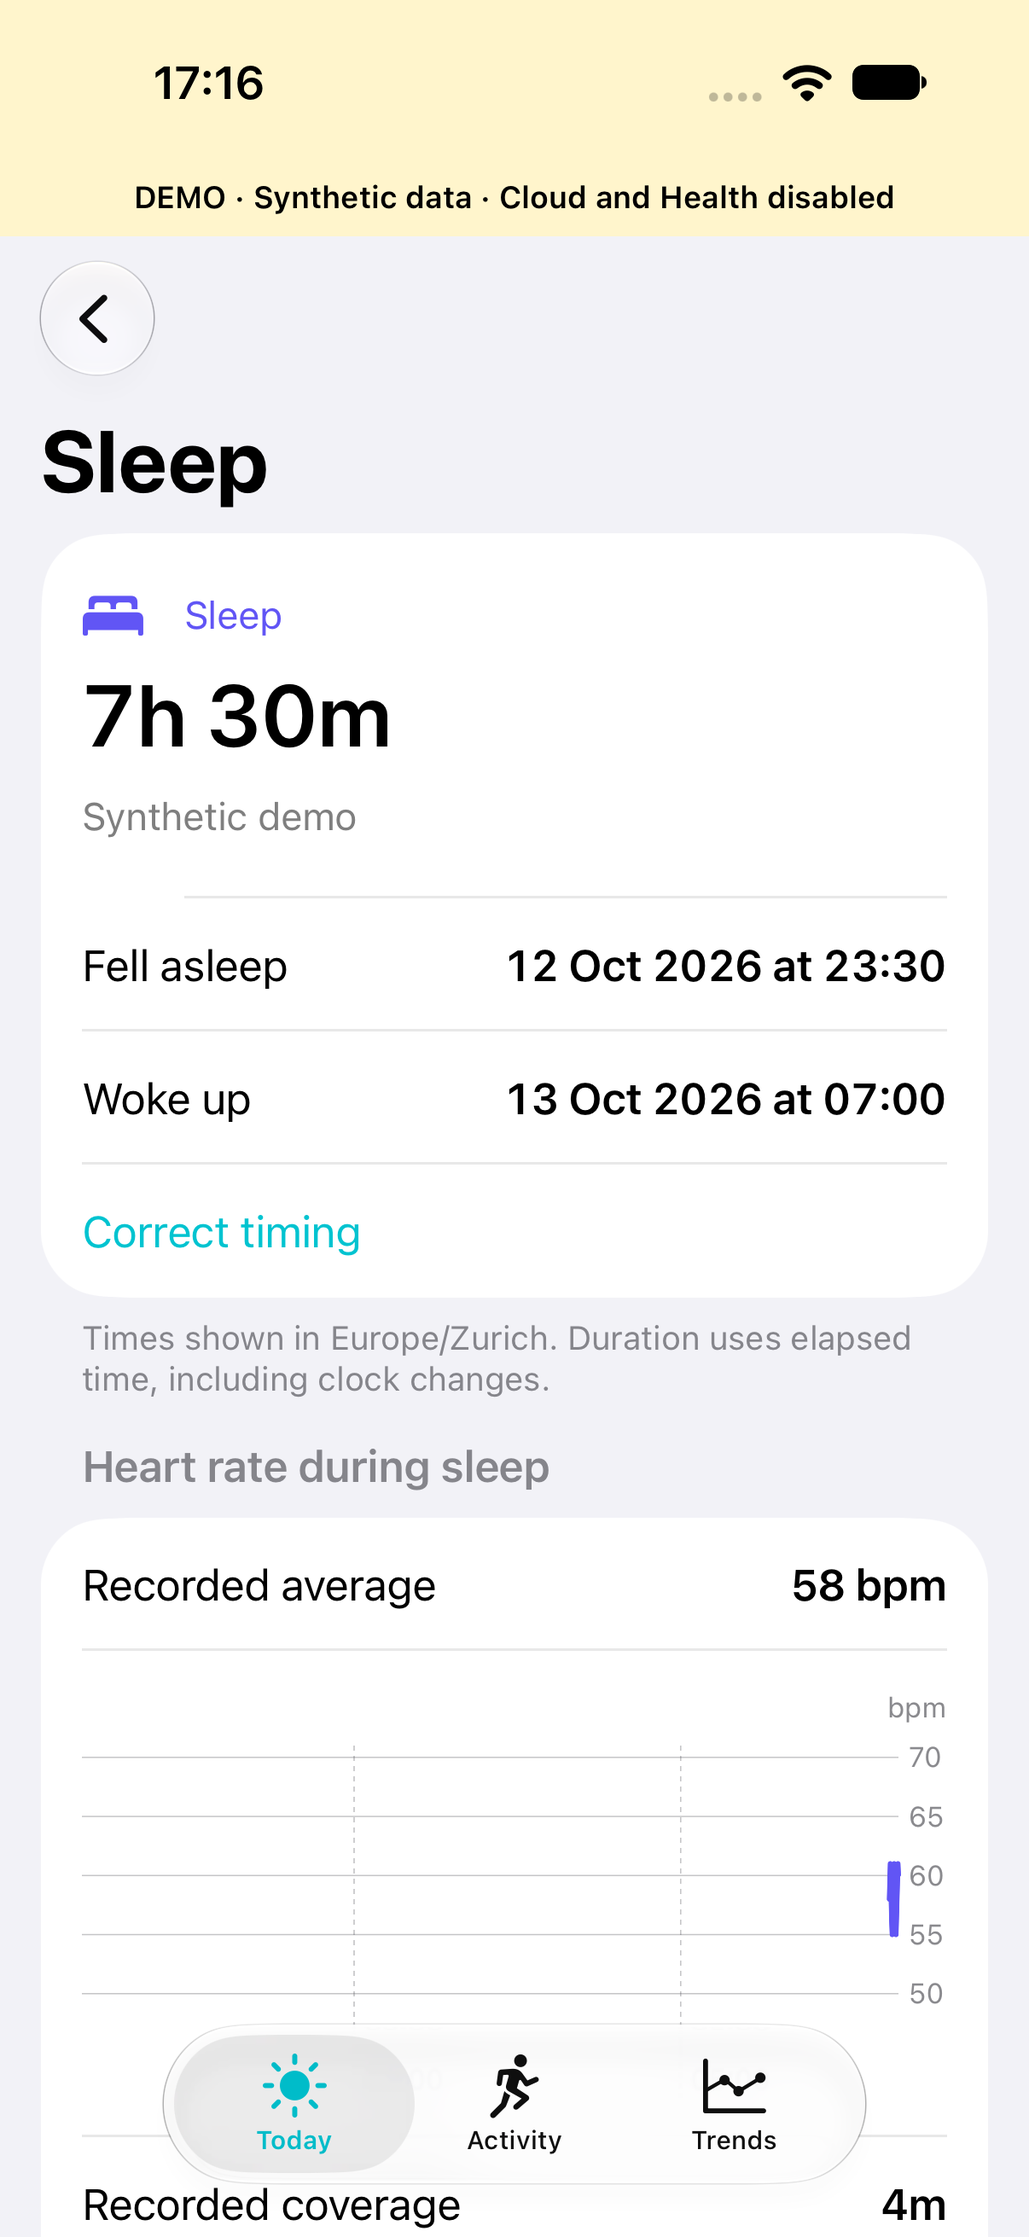
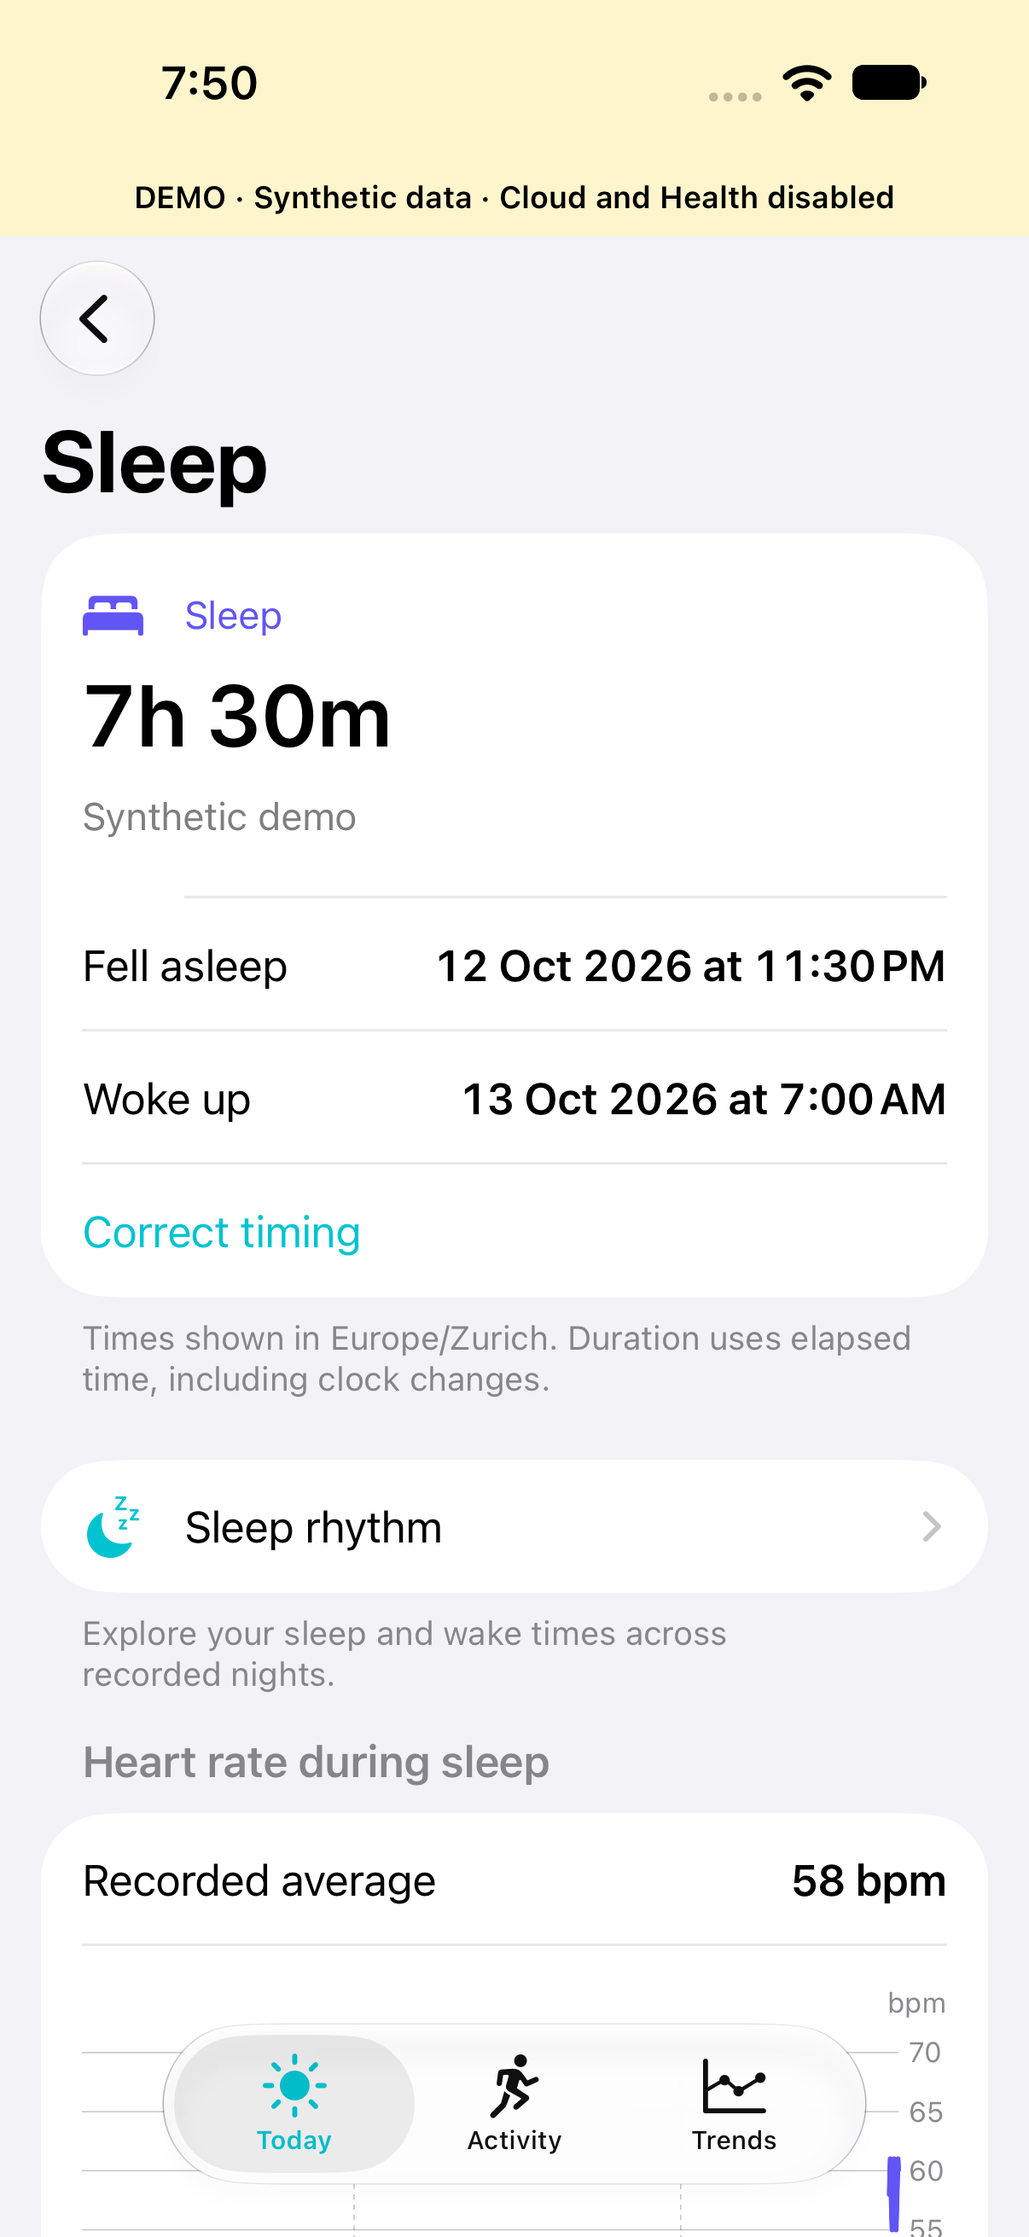
Feature sleep rhythm and remove idle Live dashboard card

diff --git a/Tests/TempoUITests/TempoUITests.swift b/Tests/TempoUITests/TempoUITests.swift
@@ -273,6 +273,15 @@ extension TempoUITests {
     let evidence = app.buttons["Source and measurement evidence"]
     for _ in 0..<4 where !evidence.isHittable { app.swipeUp() }
     XCTAssertTrue(evidence.isHittable)
+    let cloud = app.staticTexts["Demo · iCloud disabled"]
+    for _ in 0..<4 where !cloud.isHittable { app.swipeUp() }
+    XCTAssertTrue(cloud.isHittable)
+    XCTAssertFalse(app.cells.allElementsBoundByIndex.contains {
+      $0.isHittable && $0.staticTexts.count == 0 && $0.buttons.count == 0 && $0.images.count == 0
+    })
+    let lower = XCTAttachment(screenshot: app.screenshot())
+    lower.name = "live-source-sync-demo"; lower.lifetime = .keepAlways; add(lower)
+    for _ in 0..<4 where !evidence.isHittable { app.swipeDown() }
     evidence.tap()
     XCTAssertTrue(app.staticTexts["Intervals are not an overnight HRV result."].exists)
     for _ in 0..<4 where !app.buttons["Manage bands"].isHittable { app.swipeUp() }
@@ -782,4 +791,33 @@ extension TempoUITests {
     XCTAssertTrue(app.navigationBars["Sleep rhythm"].waitForExistence(timeout: 5))
     XCTAssertTrue(app.staticTexts["sleep-rhythm-coverage"].exists)
   }
+  @MainActor func testSleepRhythmIsFeaturedInTrendsAndLinkedFromSleep() {
+    let app = XCUIApplication()
+    app.launchArguments = ["--ui-testing", "--demo"]
+    app.launch()
+    let settings = app.buttons["Bands, sync and settings"]
+    XCTAssertTrue(settings.waitForExistence(timeout: 20))
+    wait(for: [expectation(for: NSPredicate(format: "enabled == true"), evaluatedWith: settings)], timeout: 30)
+    app.tabBars.buttons["Trends"].tap()
+    let card = app.buttons["trends-sleep-rhythm"]
+    XCTAssertTrue(card.waitForExistence(timeout: 10))
+    XCTAssertTrue(card.isHittable)
+    let trends = XCTAttachment(screenshot: app.screenshot())
+    trends.name = "trends-rhythm-feature-demo"; trends.lifetime = .keepAlways; add(trends)
+    card.tap()
+    XCTAssertTrue(app.staticTexts["sleep-rhythm-coverage"].waitForExistence(timeout: 5))
+    app.navigationBars.buttons.firstMatch.tap()
+    app.tabBars.buttons["Today"].tap()
+    let sleep = app.buttons["today-sleep-summary"]
+    for _ in 0..<4 where !sleep.isHittable { app.swipeUp() }
+    sleep.tap()
+    let link = app.buttons["sleep-detail-rhythm"]
+    if !link.isHittable { app.swipeUp() }
+    XCTAssertTrue(link.waitForExistence(timeout: 5))
+    let detail = XCTAttachment(screenshot: app.screenshot())
+    detail.name = "sleep-detail-rhythm-demo"; detail.lifetime = .keepAlways; add(detail)
+    link.tap()
+    XCTAssertTrue(app.staticTexts["sleep-rhythm-coverage"].waitForExistence(timeout: 5))
+  }
+
 }

diff --git a/Tempo/Views/DayHistoryViews.swift b/Tempo/Views/DayHistoryViews.swift
@@ -388,3 +388,40 @@ struct SleepRhythmView: View {
     to: Calendar.current.startOfDay(for: Date()))!
   return model.sleeps.filter { $0.end >= from }
 }
+
+/// A visible entry into sleep timing, using the same saved-night projection as the detail.
+struct SleepRhythmCard: View {
+  @Environment(AppModel.self) private var model
+  var body: some View {
+    let start = Calendar.current.date(byAdding: .day, value: -13,
+      to: Calendar.current.startOfDay(for: Date()))!
+    let entries = DayHistory.primarySleeps(model.sleeps.filter { $0.end >= start },
+      now: Date(), allowSynthetic: model.demo).compactMap { SleepRhythmEntry(session: $0) }
+    NavigationLink { SleepRhythmView() } label: {
+      VStack(alignment: .leading, spacing: 10) {
+        HStack {
+          Label("Sleep rhythm", systemImage: "moon.zzz.fill")
+            .font(.headline).foregroundStyle(.primary)
+          Spacer()
+          Image(systemName: "chevron.right").font(.caption.weight(.semibold)).foregroundStyle(.secondary)
+        }
+        Text(entries.isEmpty ? "See when you sleep and wake" : "\(entries.count) of 14 nights recorded")
+          .font(.subheadline).foregroundStyle(.secondary)
+        if !entries.isEmpty {
+          Chart(entries) { entry in
+            BarMark(x: .value("Wake date", Calendar.current.startOfDay(for: entry.session.end)),
+              yStart: .value("Bedtime", entry.startHour), yEnd: .value("Wake time", entry.endHour))
+              .foregroundStyle(.indigo).cornerRadius(2)
+          }.chartXScale(domain: start...Calendar.current.startOfDay(for: Date()).addingTimeInterval(12 * 3600))
+            .chartXAxis(.hidden).chartYAxis(.hidden).frame(height: 54)
+            .accessibilityHidden(true)
+        } else {
+          Text("Save or confirm a night to build your timing picture.")
+            .font(.caption).foregroundStyle(.secondary)
+        }
+        Text("View sleep rhythm").font(.subheadline.weight(.medium)).foregroundStyle(.indigo)
+      }.padding(18).background(Color(uiColor: .secondarySystemGroupedBackground),
+        in: RoundedRectangle(cornerRadius: 24)).contentShape(Rectangle())
+    }.buttonStyle(.plain).accessibilityIdentifier("trends-sleep-rhythm")
+  }
+}

diff --git a/Tempo/Views/TrendsView.swift b/Tempo/Views/TrendsView.swift
@@ -35,6 +35,7 @@ private enum TrendMetric: String, CaseIterable {
 
 struct TrendsView: View {
   @Environment(AppModel.self) var model
+  @Environment(\.dynamicTypeSize) private var dynamicTypeSize
   @State private var days = 28
   @State private var metric: TrendMetric = .heartRate
   @State private var selectedDate: Date?
@@ -72,6 +73,7 @@ struct TrendsView: View {
             Text("28 days").tag(28)
             Text("90 days").tag(90)
           }.pickerStyle(.segmented)
+          if !dynamicTypeSize.isAccessibilitySize { SleepRhythmCard() }
           Menu {
             Picker("Measurement", selection: $metric) {
               ForEach(TrendMetric.allCases, id: \.self) { Text($0.title).tag($0) }
@@ -83,6 +85,7 @@ struct TrendsView: View {
               Image(systemName: "chevron.up.chevron.down").font(.subheadline)
             }.contentShape(Rectangle()).frame(minHeight: 44)
           }.tint(.primary).accessibilityLabel("Measurement").accessibilityValue(metric.title)
+          if dynamicTypeSize.isAccessibilitySize { SleepRhythmCard() }
           VStack(alignment: .leading, spacing: 14) {
             if metric != .sleep && sameDataset && !summaries.isEmpty {
               periodOverview
@@ -142,7 +145,6 @@ struct TrendsView: View {
           }.padding(18).background(
             Color(uiColor: .secondarySystemGroupedBackground),
             in: RoundedRectangle(cornerRadius: 24))
-          NavigationLink("Sleep rhythm") { SleepRhythmView() }.font(.subheadline)
           DisclosureGroup("About these trends") {
             Text("Typical recorded day is the median of daily values, with each recorded day weighted equally. Missing days are excluded.")
             Text("Empty days mean missing qualifying data, not zero. A change in band, wearing placement or recording coverage can change the pattern.")

diff --git a/Tempo/Views/Editors.swift b/Tempo/Views/Editors.swift
@@ -196,6 +196,13 @@ struct SleepDetailView: View {
       } footer: {
         Text("Times shown in \(current.timeZoneID). Duration uses elapsed time, including clock changes.")
       }
+      Section {
+        NavigationLink { SleepRhythmView() } label: {
+          Label("Sleep rhythm", systemImage: "moon.zzz.fill")
+        }.accessibilityIdentifier("sleep-detail-rhythm")
+      } footer: {
+        Text("Explore your sleep and wake times across recorded nights.")
+      }
       Section("Heart rate during sleep") {
         if let snapshot, snapshot.sampleCount > 0 {
           MetricRow(label: "Recorded average", value: snapshot.average.map { String(format: "%.0f bpm", $0) } ?? "Insufficient continuous readings")

diff --git a/Tempo/Views/StatusViews.swift b/Tempo/Views/StatusViews.swift
@@ -304,7 +304,9 @@ struct LiveDashboardView: View {
       LiveHeartRateSection()
       LiveHistorySection()
       LiveSourceSection()
-      LiveWorkoutSection(confirmFinish: $confirmFinish)
+      if model.activeWorkout != nil {
+        LiveWorkoutSection(confirmFinish: $confirmFinish)
+      }
       Section("iCloud") { SyncStatusRow() }
     }.refreshable { await model.refreshToday() }
       .navigationTitle("Live dashboard")

diff --git a/README.md b/README.md
@@ -128,7 +128,7 @@ These are real screenshots captured from Tempo running in the iOS simulator, wit
 
 [<img src="docs/screenshots/live-dashboard-demo.png" width="240" alt="Live dashboard with clearly labelled synthetic heart rate and coverage">](docs/screenshots/live-dashboard-demo.png)
 
-All twenty-one captures come from successful simulator tests. Today now uses a native large title, a prominent live-reading entry, compact readiness and paired sleep/movement summaries. Tap the date on Today to explore a past day. What stands out offers an inspectable sleep-duration comparison after seven prior recorded nights. The paired sleep/movement cards have equal content-driven heights; at accessibility text sizes they stack vertically. Tapping movement opens daily load, coverage and zone evidence directly. Collection comes first while a baseline builds; unavailable readiness has compact progress instead of an empty score. Activity puts sport selection and Start first, with focused recording controls and a cancelable Finish alert. Trends puts the typical recorded day and recorded-day coverage above one focused chart. Select a point or an accessible daily row to inspect evidence; missing days stay empty. Same-dataset refreshes retain the chart and selected day. Sleep remains a separate session view. Live puts the current/recent reading and a larger four-hour chart first, with 15-minute and one-hour options. Coverage shows the percentage of the selected period recorded; blank periods remain visible. Chart methodology and source evidence expand on demand. Pull-to-refresh requests band collection and enabled cloud sync. Pull down or tap Refresh on Today to check collection and request enabled cloud sync. Journal puts Energy, Soreness and Mood first, with optional context and same-day editing. Workout details put notes/exertion ahead of collapsible measurement evidence. Capture provenance and checksums are in [the screenshot manifest](docs/screenshots/capture-manifest.json). Sleep detail now leads with duration and recorded-zone timing, followed by a separate heart-rate receipt chart and coverage; correction and provenance remain accessible.
+All twenty-two captures come from successful simulator tests. Today now uses a native large title, a prominent live-reading entry, compact readiness and paired sleep/movement summaries. Tap the date on Today to explore a past day. What stands out offers an inspectable sleep-duration comparison after seven prior recorded nights. The paired sleep/movement cards have equal content-driven heights; at accessibility text sizes they stack vertically. Tapping movement opens daily load, coverage and zone evidence directly. Collection comes first while a baseline builds; unavailable readiness has compact progress instead of an empty score. Activity puts sport selection and Start first, with focused recording controls and a cancelable Finish alert. Trends features a Sleep rhythm timing-preview card; Sleep detail links directly to the full rhythm. Trends puts the typical recorded day and recorded-day coverage above one focused chart. Select a point or an accessible daily row to inspect evidence; missing days stay empty. Same-dataset refreshes retain the chart and selected day. Sleep remains a separate session view. Live puts the current/recent reading and a larger four-hour chart first, with 15-minute and one-hour options. Coverage shows the percentage of the selected period recorded; blank periods remain visible. Chart methodology and source evidence expand on demand. Pull-to-refresh requests band collection and enabled cloud sync. Pull down or tap Refresh on Today to check collection and request enabled cloud sync. Journal puts Energy, Soreness and Mood first, with optional context and same-day editing. Workout details put notes/exertion ahead of collapsible measurement evidence. Capture provenance and checksums are in [the screenshot manifest](docs/screenshots/capture-manifest.json). Sleep detail now leads with duration and recorded-zone timing, followed by a separate heart-rate receipt chart and coverage; correction and provenance remain accessible.
 
 | Baseline building · empty test dataset | Band status · empty test dataset | Sleep trends · synthetic demo |
 |---|---|---|
@@ -344,3 +344,7 @@ The page explains daily cardiovascular load and recorded intensity independently
 | [<img src="docs/screenshots/day-explorer-demo.png" width="240" alt="Tempo date-based history explorer with synthetic measurements">](docs/screenshots/day-explorer-demo.png) | [<img src="docs/screenshots/sleep-rhythm-demo.png" width="240" alt="Tempo saved sleep timing chart with synthetic nights">](docs/screenshots/sleep-rhythm-demo.png) | [<img src="docs/screenshots/observation-detail-demo.png" width="240" alt="Tempo inspectable sleep duration comparison using synthetic history">](docs/screenshots/observation-detail-demo.png) |
 
 These are unmodified simulator captures with clearly labelled isolated synthetic data. [Day-history methodology](docs/DayHistory.md) documents calendar boundaries, reference coverage, provenance, missing-data behaviour and the bug pass.
+
+Live dashboard source and sync controls, without an empty workout container:
+
+<img src="docs/screenshots/live-source-sync-demo.png" width="240" alt="Synthetic Live dashboard source and sync status" />

diff --git a/docs/Verification.md b/docs/Verification.md
@@ -2,6 +2,13 @@
 
 Software verification is separate from physical collection acceptance.
 
+## Sleep rhythm discovery and empty Live card
+
+- 165 Debug core tests passed with the Xcode toolchain. Five affected UI flows passed across final runs: standard Trends, Sleep-to-rhythm navigation, maximum-text/dark Trends-to-Live, maximum-text Sleep correction and Live source/sync navigation. This is targeted verification, not a fresh full UI suite.
+- The new route check failed before the featured card/link existed. Large text exposed an off-screen measurement selector; the final layout keeps that selector ahead of the card at accessibility sizes. The test waits for the isolated demo dataset before navigating.
+- The idle workout TimelineView was producing a blank List container. The whole child is now conditional on an active workout. A final Live test checks visible rows for actual content and the inspected lower-dashboard capture shows Source followed by iCloud without the blank card. The first label-only assertion was overly broad because populated SwiftUI containers can have empty parent labels.
+- Final signed Release build succeeded and installed. Updated Trends, sleep-Trends, Sleep detail and Live images retain original labelled synthetic simulator pixels; the gallery now has22 captures. Physical collection and sleep accuracy gates are unchanged.
+
 ## Day history, sleep context and bug pass
 
 - 165 core tests passed in both Debug and Release. Regressions cover half-open local days and DST, saved-session correction precedence, invalid dates, deterministic overlap, missing baselines, imported/demo isolation and historical caffeine dates.

diff --git a/docs/Completed.md b/docs/Completed.md
@@ -50,3 +50,5 @@ Compact index only: ID · outcome · commit · verification. Remove closed ticke
 - UX13/UX14 — Today sleep/movement cards share the taller content-driven height, including manual sleep, while accessibility text stays stacked. Movement opens daily load/coverage/intensity/zones and methodology directly. Verified150 core tests, targeted card/manual-save/movement/large-text-dark/empty/battery flows, fresh labelled captures, signed Release install and read-only review; no analytical algorithm change.
 
 - UX26 /AUD02 — Date-based day explorer, inspectable sleep-duration observation and recorded-zone sleep rhythm; fixed deterministic sleep overlap, invalid-session projection, cross-midnight correction precedence, historical caffeine dates and imported HR reader isolation. Verified165 Debug/Release core tests,29 broad UI tests plus4 final-source feature/accessibility flows, clean public unsigned build, signed Release install and read-only review; four inspected synthetic captures. Physical gates remain separate.
+
+- UX27 /D06 — Prominent Trends sleep-rhythm preview with accessible placement and direct Sleep detail navigation; idle Live dashboard no longer renders a blank workout timer row. Verified165 core tests, five affected UI flows across final runs, inspected fresh synthetic captures and signed Release build/install. No sleep algorithm or hardware collection changes.

diff --git a/docs/DayHistory.md b/docs/DayHistory.md
@@ -33,3 +33,5 @@ Bar width represents clock timing, while elapsed duration is computed from UTC i
 Regression tests reproduced and fixed unstable equal-rank overlapping sleep selection and acceptance of infinite session dates. New reader tests also caught correction suppression across midnight and manual nap reclassification. Review caught historical caffeine date anchoring and missing truncation disclosure; both were addressed. Original sessions/measurements, correction ancestry and sync account isolation are preserved.
 
 Software checks are recorded in [Verification](Verification.md). Physical background/CPU, Health permissions and multi-phone cloud acceptance gates remain tracked separately. This feature pass does not assert those hardware gates complete.
+
+Sleep rhythm is featured before the measurement selector at standard text sizes (immediately after it at accessibility sizes) in Trends as a native navigation card with a14-day saved-night clock preview. Its preview uses the same primary-session and recorded-timezone rules as the full view; it is independent of the measurement chart range. Empty history offers an informative entry instead of invented bars. Sleep detail links directly to the full rhythm below its timing summary.

diff --git a/docs/screenshots/README.md b/docs/screenshots/README.md
@@ -24,3 +24,5 @@ Sleep detail was captured by `testSleepDetailLeadsWithTimingAndUpdatesCorrection
 Today equal-card capture comes from `testTodaySummaryCardsHaveEqualHeight`, including a manual sleep revision inside the isolated demo dataset. Daily movement evidence comes from `testTodayMovementOpensDailyEvidenceInsteadOfWorkouts`. Empty Today and demo battery captures were also refreshed by their successful tests. These images retain original simulator pixels and disclose synthetic/empty data.
 
 Day explorer, sleep rhythm, daily observation evidence and the updated Today capture come from the successful final feature tests on the isolated Tempo audit simulator. The gallery has21 captures; original attachment pixels and provenance are retained in the manifest.
+
+Sleep rhythm discoverability captures refresh Trends and Sleep detail from `testSleepRhythmIsFeaturedInTrendsAndLinkedFromSleep` and the standard Trends evidence flow. The Live source/sync capture comes from the successful Live dashboard regression and shows no idle workout row. All22 captures remain unmodified synthetic/empty simulator evidence; hardware validation is separate.

diff --git a/docs/BugAudit.md b/docs/BugAudit.md
@@ -28,3 +28,5 @@ Latest run counts and installation results are maintained in [Verification.md](V
 ## Day-history pass
 
 Fixed input-order-dependent sleep overlap and invalid-date projections, globally reconciled corrections before day/night filtering, anchored historical caffeine clock edits to their journal date/timezone, and kept imported HR an explicit reader opt-in. Bounded day queries show truncation, reject stale dataset/day results and stop scheduled refreshes while hidden. The165-test core suite and final feature UI flows verify these contracts; see [DayHistory.md](DayHistory.md) and [Verification.md](Verification.md).
+
+The Live dashboard could render an empty List row from a TimelineView whose inner workout branch was absent. The active-workout condition now surrounds the whole timer-backed child, so idle dashboards have no workout container. The source/sync screenshot and visible-empty-row UI assertion cover the reported layout.
